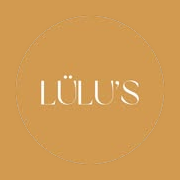
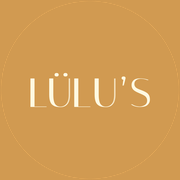
Vector seal

diff --git a/v2/index.html b/v2/index.html
@@ -176,11 +176,11 @@
 <script type="application/ld+json">{"@context":"https://schema.org","@type":"Restaurant","name":"LÜLU’S","image":"img/og.jpg","telephone":"+201210514222","address":{"@type":"PostalAddress","streetAddress":"EDNC by SODIC","addressLocality":"New Cairo","addressCountry":"EG"},"hasMenu":"menu.html","sameAs":["https://www.instagram.com/lulusinmotion/","https://www.tiktok.com/@lulusinmotion"]}</script>
 </head>
 <body class="home" data-wa="201210514222" data-appstore="https://apps.apple.com/app/id6757676939" data-play="https://play.google.com/store/apps/details?id=com.seamlabs.lulus">
-<div class="veil" id="veil" aria-hidden="true"><div class="veil-in"><img src="img/logo.png" width="96" height="96" alt=""><i class="veil-line"><i id="veil-bar"></i></i></div></div>
+<div class="veil" id="veil" aria-hidden="true"><div class="veil-in"><img src="img/logo.svg" width="96" height="96" alt=""><i class="veil-line"><i id="veil-bar"></i></i></div></div>
 <a class="skip" href="#main">Skip to content</a>
 
 <header class="bar" id="bar">
-  <a class="bar-logo" href="index.html" aria-label="LÜLU’S, home"><img src="img/logo.png" width="44" height="44" alt=""></a>
+  <a class="bar-logo" href="index.html" aria-label="LÜLU’S, home"><img src="img/logo.svg" width="44" height="44" alt=""></a>
   <nav class="bar-nav" aria-label="Main">
     <a class="bar-link" href="menu.html">Menu</a>
     <a class="btn btn-sm" href="https://wa.me/201210514222?text=Hello%20L%C3%9CLU%E2%80%99S%2C%20I%E2%80%99d%20like%20to%20reserve%20a%20table." data-reserve>Reserve</a>
@@ -193,7 +193,7 @@
     <script>LULUS.heroInto(document.getElementById('hero-media'));</script>
     <noscript><div class="hero-media" style="--hero-r:1.2878"><i class="ph-img" role="img" aria-label="Photo to come"></i></div></noscript>
     <div class="hero-body">
-      <h1 class="hero-seal"><img class="hero-logo" src="img/logo.png" width="112" height="112" alt="LÜLU’S"></h1>
+      <h1 class="hero-seal"><img class="hero-logo" src="img/logo.svg" width="112" height="112" alt="LÜLU’S"></h1>
       <p class="place">EDNC by SODIC, New Cairo</p>
       <div class="hero-cta">
         <a class="btn btn-light" href="https://wa.me/201210514222?text=Hello%20L%C3%9CLU%E2%80%99S%2C%20I%E2%80%99d%20like%20to%20reserve%20a%20table." data-reserve>Reserve a table</a>
@@ -255,7 +255,7 @@
 
 <footer class="foot">
   <div class="wrap foot-in">
-    <img class="foot-logo" src="img/logo.png" width="56" height="56" alt="LÜLU’S">
+    <img class="foot-logo" src="img/logo.svg" width="56" height="56" alt="LÜLU’S">
     <div class="foot-cols">
       <nav class="foot-col" aria-label="Follow and contact">
         <p class="foot-h">Follow</p>

diff --git a/v2/menu.html b/v2/menu.html
@@ -172,11 +172,11 @@
 </script>
 <link rel="stylesheet" href="css/menu.css?v=ea2ec7b3">
 </head>
-<body class="menu" data-wa="201210514222" data-logo="img/logo.png" data-footnote="Prices in EGP, subject to 14% VAT and 12% service charge. Served in-house, for dine-in.">
+<body class="menu" data-wa="201210514222" data-logo="img/logo.svg" data-footnote="Prices in EGP, subject to 14% VAT and 12% service charge. Served in-house, for dine-in.">
 <a class="skip" href="#book">Skip to the menu</a>
 
 <header class="mbar">
-  <a class="bar-logo" href="index.html" aria-label="LÜLU’S, home"><img src="img/logo.png" width="44" height="44" alt=""></a>
+  <a class="bar-logo" href="index.html" aria-label="LÜLU’S, home"><img src="img/logo.svg" width="44" height="44" alt=""></a>
   <a class="btn btn-sm" href="https://wa.me/201210514222?text=Hello%20L%C3%9CLU%E2%80%99S%2C%20I%E2%80%99d%20like%20to%20reserve%20a%20table." data-reserve>Reserve</a>
 </header>
 
